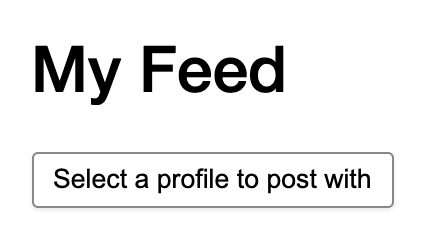
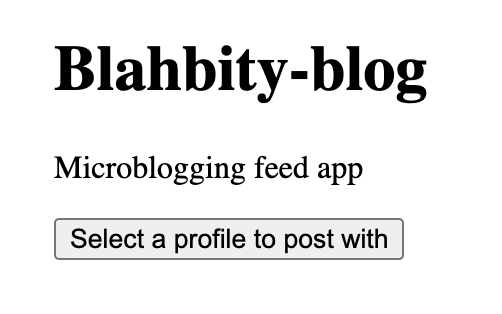
GitBook: [master] one page and 2 assets modified

Changed region(s): [[0.0613, 0.1389, 0.8585, 0.4167], [0.0613, 0.6111, 0.9505, 0.8333], [0.092, 0.5, 0.9198, 0.6111]]

diff --git a/joining-the-social-network.md b/joining-the-social-network.md
@@ -193,19 +193,19 @@ To add yourself to the directory, click "Sign in via Twitter." You'll be directe
 
 After you've signed in, click "Add Your Listing." You'll be prompted to select your profile drive. Do that and your profile will be added!
 
-## Set up your feed app
+## Say hello on your feed
 
-Now that you've added some people to [your address book](intermediate/your-address-book.md), let's set up a social media feed.
+Now that you've added some people to [your address book](intermediate/your-address-book.md), let's say hi on your social media feed.
 
 {% hint style="info" %}
-This feed app will be another hyperdrive which reads and writes posts from your profile drive. It lives separately from your profile. You can share it if you want, but everybody can create their own feed app.
+This feed app will be another hyperdrive which reads and writes posts from your profile drive. It lives separately from your profile.
 {% endhint %}
 
-[Open the Microblog Feed Template](https://beaker.dev/docs/templates/microblog-feed/) and click "Create Drive from this Template." Change the title if you like and click "Create."
+Visit the "Blahbity Blog" app at this URL:
 
-![](.gitbook/assets/create-my-feed.png)
+hyper://a8e9bd0f4df60ed5246a1b1f53d51a1feaeb1315266f769ac218436f12fda830/
 
-This will create a Hyperdrive app _which you own_. You can [edit the source](beginner/editor.md) and make any change you want.
+You'll see the following screen:
 
 ![](.gitbook/assets/my-feed-not-signed-in.png)
 
@@ -215,13 +215,7 @@ After you select your profile, you'll see posts from people in your address book
 
 ## You're now hooked in!
 
-You can make posts and see posts from your network, _and_ you can hack the social media feed app to change the styles and add new features.
-
-Of course, you might want to find a feed app somebody else made so then it's their headache. The good news is: your data will transfer between the apps!
-
-{% hint style="info" %}
-This network is an experiment to see what happens when users are put in control of the applications. We're going to help guide things, but we're also going to stay hands-off when possible. It might get a little messy, but we hope you'll have some fun!
-{% endhint %}
+You can make posts and see posts from your network, _and_ you can [fork the social media feed app](advanced/forking-hyperdrives.md) to change the styles and add new features.
 
 ## What next?
 
